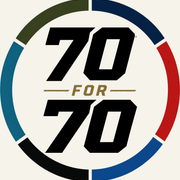
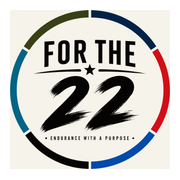
Refactor code structure for improved readability and maintainability; removed redundant sections and optimized logic flow.

diff --git a/src/lib/content/about.ts b/src/lib/content/about.ts
@@ -35,7 +35,7 @@ export const ABOUT_CONTENT: AboutContent = {
       id: "my-story",
       heading: "My Story",
       body: [
-        "My name is Cody Hitson. I am a husband, father, Navy veteran, law enforcement professional, and endurance athlete. Over the years, I have worn a lot of different uniforms and carried a lot of different responsibilities, but the part of my story that matters most to 70 for 70 is not what I have done.",
+        "My name is Cody Hitson. I am a husband, father, Navy veteran, law enforcement professional, and endurance athlete. Over the years, I have worn a lot of different uniforms and carried a lot of different responsibilities, but the part of my story that matters most to 70 for 22 is not what I have done.",
         "It is what I have survived, what I have learned, and what I believe I am supposed to do with the life I have been given.",
         "I spent seven years on active duty in the United States Navy as a Mass Communication Specialist. In 2011, I deployed to Afghanistan in support of Operation Enduring Freedom as a combat journalist. My job placed me alongside service members operating in an environment where violence, loss, fear, and uncertainty were part of everyday life.",
         "Like a lot of veterans, I came home physically present but carrying things I did not fully understand how to process.",
@@ -66,7 +66,7 @@ export const ABOUT_CONTENT: AboutContent = {
         "Mighty Oaks gave me more than a place to talk about difficult experiences. It helped me look at those experiences through a different lens — one centered on faith, responsibility, purpose, relationships, and what it means to move forward intentionally.",
         "The lessons I took home affected the way I viewed myself, my marriage, my family, my service, and my future.",
         "I left understanding something I had spent years missing: recovery is not simply about becoming the person you were before something happened. Sometimes it is about becoming someone stronger, wiser, more grounded, and more useful because of what happened.",
-        "That is one of the reasons Mighty Oaks is part of 70 for 70. I know firsthand what their work can mean to a veteran and a family.",
+        "That is one of the reasons Mighty Oaks is part of 70 for 22. I know firsthand what their work can mean to a veteran and a family.",
       ],
     },
     {
@@ -110,12 +110,12 @@ export const ABOUT_CONTENT: AboutContent = {
       heading: "The Next Challenge",
       body: [
         "My next major goal is completing a 70.3-mile triathlon. That means 1.2 miles swimming, 56 miles cycling, and 13.1 miles running — 70.3 miles total.",
-        "But I do not want this race to be only about crossing another finish line. I want those miles to mean something. That is where 70 for 70 began.",
+        "But I do not want this race to be only about crossing another finish line. I want those miles to mean something. That is where 70 for 22 began.",
       ],
     },
     {
-      id: "seventy-for-seventy",
-      heading: "70 for 70",
+      id: "seventy-for-twenty-two",
+      heading: "70 for 22",
       body: [
         "The mission is simple: 70 miles. $70,000. One mission for veterans.",
         "My goal is to use the road to 70.3 as a platform to raise $70,000 in support of organizations helping veterans rebuild their lives, rediscover purpose, and find community after service. Every mile represents $1,000 toward that mission.",
@@ -136,7 +136,7 @@ export const ABOUT_CONTENT: AboutContent = {
       id: "the-mission",
       heading: "The Mission",
       body: [
-        "70 for 70 is not about proving how tough I am. I have nothing left to prove in that department.",
+        "70 for 22 is not about proving how tough I am. I have nothing left to prove in that department.",
         "This is about using the ability I still have, the opportunities I have been given, and the lessons I have learned to help someone else take their next step.",
         "If my story helps one veteran ask for help, it matters. If this campaign helps one family get their husband, wife, father, mother, son, or daughter back, it matters. If these 70 miles help create a new mission for someone who thought theirs was over, every mile will have been worth it.",
         "70 miles. $70,000. One mission for veterans. And one step at a time until we get there.",

diff --git a/src/app/press/page.tsx b/src/app/press/page.tsx
@@ -11,7 +11,7 @@ import { ABOUT_CONTENT } from "@/lib/content/about";
 
 export const metadata: Metadata = {
   title: "Press & Media",
-  description: "Campaign summary, athlete bio, and media resources for 70 for 70.",
+  description: "Campaign summary, athlete bio, and media resources for For The 22.",
   alternates: { canonical: "/press" },
 };
 
@@ -33,7 +33,7 @@ export default async function PressPage() {
               Campaign Summary
             </h2>
             <p className="mt-3 text-base leading-relaxed text-charcoal-light">
-              70 for 70 pairs a 70.3-mile triathlon with a $70,000 fundraising goal — $1,000 per
+              70 for 22 pairs a 70.3-mile triathlon with a $70,000 fundraising goal — $1,000 per
               race mile — in support of veteran-focused nonprofit organizations.
               {" "}{SITE_TAGLINE}
             </p>
@@ -67,12 +67,13 @@ export default async function PressPage() {
               Logo Downloads
             </h2>
             <p className="mt-1 text-sm text-charcoal-light">
-              The compact icon/mark is available below in light- and dark-background versions.
-              A horizontal lockup hasn&apos;t been produced yet.
+              The compact icon/mark is available below in light- and dark-background versions,
+              alongside the 70 for 22 campaign mark. A horizontal lockup hasn&apos;t been
+              produced yet.
             </p>
             <div className="mt-3 flex flex-wrap gap-4">
               <div className="inline-flex flex-col items-start gap-3 rounded-sm border border-ink/10 bg-off-white p-6">
-                <Image src="/logo.png" alt="70 for 70 logo mark, dark numerals" width={140} height={140} />
+                <Image src="/logo.png" alt="For The 22 logo mark, dark numerals" width={140} height={140} />
                 <a
                   href="/logo.png"
                   download
@@ -84,7 +85,7 @@ export default async function PressPage() {
               <div className="inline-flex flex-col items-start gap-3 rounded-sm border border-ink/10 bg-ink p-6">
                 <Image
                   src="/logo-white.png"
-                  alt="70 for 70 logo mark, white numerals"
+                  alt="For The 22 logo mark, white numerals"
                   width={140}
                   height={140}
                 />
@@ -94,6 +95,21 @@ export default async function PressPage() {
                   className="inline-flex rounded-sm border border-off-white/30 px-4 py-2 text-xs font-semibold uppercase tracking-wide text-off-white hover:bg-off-white/10"
                 >
                   Download (Dark Background)
+                </a>
+              </div>
+              <div className="inline-flex flex-col items-start gap-3 rounded-sm border border-ink/10 bg-off-white p-6">
+                <Image
+                  src="/campaign-logo.png"
+                  alt="70 for 22 campaign logo mark"
+                  width={140}
+                  height={140}
+                />
+                <a
+                  href="/campaign-logo.png"
+                  download
+                  className="inline-flex rounded-sm border border-ink/20 px-4 py-2 text-xs font-semibold uppercase tracking-wide text-ink hover:bg-ink/5"
+                >
+                  Download (Campaign Mark)
                 </a>
               </div>
             </div>

diff --git a/src/lib/content/terms.ts b/src/lib/content/terms.ts
@@ -20,7 +20,7 @@ export const TERMS_SECTIONS: TermsSection[] = [
     heading: "Terms of Use",
     body: [
       "By using this website, you agree to use it lawfully and not to interfere with its operation, attempt unauthorized access to any part of it, or misuse the contact or sponsorship request forms.",
-      "This site is provided as-is, without warranty of any kind. 70 for 70 is not liable for any damages arising from your use of the site, to the fullest extent permitted by law.",
+      "This site is provided as-is, without warranty of any kind. For The 22 is not liable for any damages arising from your use of the site, to the fullest extent permitted by law.",
       "These terms may be updated from time to time; the current version always applies. Continued use of the site after a change means you accept the updated terms.",
     ],
   },
@@ -28,7 +28,7 @@ export const TERMS_SECTIONS: TermsSection[] = [
     id: "sponsorship-disclosure",
     heading: "Sponsorship Disclosure",
     body: [
-      "Sponsorship proposals submitted through this site are reviewed under a documented approval process before any sponsorship, gift, payment, product, or service is accepted. Submitting a sponsorship request does not create any obligation on the part of 70 for 70 to accept it.",
+      "Sponsorship proposals submitted through this site are reviewed under a documented approval process before any sponsorship, gift, payment, product, or service is accepted. Submitting a sponsorship request does not create any obligation on the part of For The 22 to accept it.",
       "A business or individual is only recognized publicly as a sponsor after its request has been approved and activated by the campaign administrator. No sponsorship recognition implies an endorsement of the sponsor by any beneficiary organization named on this site.",
     ],
   },
@@ -36,8 +36,8 @@ export const TERMS_SECTIONS: TermsSection[] = [
     id: "charitable-giving-disclosure",
     heading: "Charitable Giving Disclosure",
     body: [
-      "70 for 70 does not process, collect, or take possession of charitable donations. Donate links on this site route to each beneficiary organization's own, independently operated donation platform, and your donation is governed by that organization's own terms and privacy practices.",
-      "70 for 70 does not issue tax receipts. If your donation is tax-deductible, the receiving nonprofit organization — not 70 for 70 — is responsible for providing documentation.",
+      "For The 22 does not process, collect, or take possession of charitable donations. Donate links on this site route to each beneficiary organization's own, independently operated donation platform, and your donation is governed by that organization's own terms and privacy practices.",
+      "For The 22 does not issue tax receipts. If your donation is tax-deductible, the receiving nonprofit organization — not For The 22 — is responsible for providing documentation.",
       "Fundraising figures shown on this site (amounts raised, miles funded) reflect information reported to or verified by the campaign and may not update in real time with each beneficiary organization's own records.",
     ],
   },

diff --git a/src/app/page.tsx b/src/app/page.tsx
@@ -20,7 +20,7 @@ import { MediaPlaceholder } from "@/components/shared/media-placeholder";
 import { ShareButtons } from "@/components/shared/share-buttons";
 import { EmailSignupForm } from "@/components/forms/email-signup-form";
 import { ABOUT_CONTENT } from "@/lib/content/about";
-import { SITE_TAGLINE, SITE_URL } from "@/lib/constants";
+import { CAMPAIGN_NAME, SITE_TAGLINE, SITE_URL } from "@/lib/constants";
 import { formatCurrency, formatNumber, milesFunded, percentFunded } from "@/lib/utils";
 
 const HERO_SUPPORTING_SENTENCE =
@@ -55,7 +55,7 @@ export default async function HomePage() {
 
         <Container className="relative py-24 sm:py-32">
           <h1 className="text-balance font-display text-5xl font-bold uppercase leading-[0.95] tracking-tight sm:text-7xl">
-            70 for 70
+            {CAMPAIGN_NAME}
           </h1>
           <p className="mt-4 max-w-xl text-lg font-medium text-off-white/90 sm:text-xl">
             {SITE_TAGLINE}
@@ -148,7 +148,7 @@ export default async function HomePage() {
           </div>
 
           <div>
-            <SectionHeading eyebrow="Who's Behind 70 for 70" title="Why I'm Doing This" />
+            <SectionHeading eyebrow="Who's Behind 70 for 22" title="Why I'm Doing This" />
             <div className="mt-5 space-y-4">
               {ABOUT_CONTENT.homepageTeaser.map((paragraph, i) => (
                 <p key={i} className="text-base leading-relaxed text-charcoal-light">
@@ -194,7 +194,7 @@ export default async function HomePage() {
           <SectionHeading
             eyebrow="Who It Supports"
             title="Beneficiary Organizations"
-            description="70 for 70 raises funds in support of veteran-focused nonprofit organizations."
+            description="70 for 22 raises funds in support of veteran-focused nonprofit organizations."
           />
           <div className="mt-8 grid gap-6 sm:grid-cols-2">
             {partners.map((partner) => (
@@ -230,7 +230,7 @@ export default async function HomePage() {
           <SectionHeading
             eyebrow="Backing the Mission"
             title="Sponsors"
-            description="Organizations and businesses supporting 70 for 70 alongside individual donors."
+            description="Organizations and businesses supporting 70 for 22 alongside individual donors."
           />
           <div className="mt-8">
             <SponsorWall sponsors={sponsors} />
@@ -282,11 +282,11 @@ export default async function HomePage() {
       <section className="py-10">
         <Container className="flex flex-wrap items-center justify-between gap-4">
           <p className="text-xs font-semibold uppercase tracking-widest text-charcoal-light">
-            Share 70 for 70
+            Share 70 for 22
           </p>
           <ShareButtons
             url={SITE_URL}
-            title="I'm helping move 70 for 70 one mile closer to $70,000 for veterans."
+            title="I'm helping move 70 for 22 one mile closer to $70,000 for veterans."
           />
         </Container>
       </section>

diff --git a/src/app/donate/page.tsx b/src/app/donate/page.tsx
@@ -10,7 +10,7 @@ import { CampaignAllocation } from "@/components/campaign/campaign-allocation";
 
 export const metadata: Metadata = {
   title: "Donate",
-  description: "Support 70 for 70 through an authorized partner donation platform.",
+  description: "Support 70 for 22 through an authorized partner donation platform.",
   alternates: { canonical: "/donate" },
 };
 
@@ -29,7 +29,7 @@ export default async function DonatePage(props: PageProps<"/donate">) {
           <SectionHeading
             eyebrow="Support the Mission"
             title="Where Would You Like Your Donation to Go?"
-            description="70 for 70 does not process donations directly. Choose a beneficiary organization below to give through its authorized donation platform."
+            description="For The 22 does not process donations directly. Choose a beneficiary organization below to give through its authorized donation platform."
           />
 
           {mileNumber && Number.isFinite(mileNumber) && (
@@ -89,9 +89,9 @@ export default async function DonatePage(props: PageProps<"/donate">) {
           </div>
 
           <p className="mt-8 max-w-2xl text-sm font-medium text-charcoal-light">
-            70 for 70 does not take possession of charitable donations. Donations are directed
-            through each nonprofit organization&apos;s authorized donation platform, and 70 for
-            70 does not independently process charitable contributions unless explicitly stated.
+            For The 22 does not take possession of charitable donations. Donations are directed
+            through each nonprofit organization&apos;s authorized donation platform, and For The
+            22 does not independently process charitable contributions unless explicitly stated.
           </p>
 
           {allocationBreakdown && (

diff --git a/src/lib/content/mission.ts b/src/lib/content/mission.ts
@@ -17,7 +17,7 @@ export const MISSION_SECTIONS: MissionSection[] = [
     id: "the-challenge",
     heading: "The Challenge",
     body: [
-      "70 for 70 pairs a 70.3-mile triathlon — a 1.2-mile swim, 56-mile bike, and 13.1-mile run — with a $70,000 fundraising goal: one mile completed on race day, one mile of fundraising, at $1,000 per mile.",
+      "70 for 22 pairs a 70.3-mile triathlon — a 1.2-mile swim, 56-mile bike, and 13.1-mile run — with a $70,000 fundraising goal: one mile completed on race day, one mile of fundraising, at $1,000 per mile.",
       "The race itself is the vehicle, not the point. The training, the setbacks, the early mornings, and the finish line all become part of something larger than one race.",
     ],
   },
@@ -35,7 +35,7 @@ export const MISSION_SECTIONS: MissionSection[] = [
     heading: "Why Mighty Oaks",
     body: [
       "In 2023, I attended a Mighty Oaks Warrior Program retreat. It became an important turning point in my life — helping me look at difficult experiences through a lens centered on faith, responsibility, purpose, and relationships, and affecting how I viewed my marriage, my family, and my future.",
-      "I know firsthand what their work can mean to a veteran and a family. That's why Mighty Oaks is part of 70 for 70.",
+      "I know firsthand what their work can mean to a veteran and a family. That's why Mighty Oaks is part of 70 for 22.",
     ],
     link: { label: "Learn more about Mighty Oaks", href: "/partners" },
   },

diff --git a/src/lib/constants.ts b/src/lib/constants.ts
@@ -1,6 +1,15 @@
 import type { NavLink } from "@/types/content";
 
-export const SITE_NAME = "70 for 70";
+/** The organization/site brand — used in the header, footer, legal copy, and site-wide metadata. */
+export const SITE_NAME = "For The 22";
+/** The org's own tagline, from the logo mark. */
+export const ORG_TAGLINE = "Endurance With A Purpose";
+/**
+ * The specific fundraising campaign/race effort — distinct from SITE_NAME.
+ * Used in the hero, mission copy, and anywhere the campaign itself (not the
+ * organization) is being named.
+ */
+export const CAMPAIGN_NAME = "70 for 22";
 export const SITE_TAGLINE = "70 miles. $70,000. One mission for veterans.";
 export const SITE_URL = process.env.NEXT_PUBLIC_SITE_URL ?? "http://localhost:3000";
 
@@ -86,12 +95,12 @@ export const SPONSORSHIP_LEVELS = [
     perks: [
       "Top-tier logo placement across the site",
       "Dedicated recognition in race-day communications",
-      "First right of refusal for future 70 for 70 campaigns",
+      "First right of refusal for future For The 22 campaigns",
     ],
   },
 ] as const;
 
-/** Why sponsor 70 for 70 — shown before pricing tiers on the Sponsors page. */
+/** Why sponsor 70 for 22 — shown before pricing tiers on the Sponsors page. */
 export const SPONSOR_VALUE_PROPS = [
   {
     id: "veteran-impact",

diff --git a/src/app/partners/page.tsx b/src/app/partners/page.tsx
@@ -6,7 +6,7 @@ import { PartnerCard } from "@/components/partners/partner-card";
 
 export const metadata: Metadata = {
   title: "Partners",
-  description: "The veteran-focused nonprofit organizations supported by 70 for 70.",
+  description: "The veteran-focused nonprofit organizations supported by 70 for 22.",
   alternates: { canonical: "/partners" },
 };
 
@@ -20,7 +20,7 @@ export default async function PartnersPage() {
           <SectionHeading
             eyebrow="Who It Supports"
             title="Beneficiary Organizations"
-            description="70 for 70 raises funds in support of the following veteran-focused nonprofit organizations."
+            description="70 for 22 raises funds in support of the following veteran-focused nonprofit organizations."
           />
         </Container>
       </section>
@@ -35,7 +35,7 @@ export default async function PartnersPage() {
 
           <p className="mt-10 max-w-2xl text-sm text-charcoal-light">
             Donations are directed through each organization&apos;s authorized donation
-            platform. 70 for 70 does not independently process charitable contributions
+            platform. For The 22 does not independently process charitable contributions
             unless explicitly stated.
           </p>
         </Container>

diff --git a/src/app/miles/[number]/page.tsx b/src/app/miles/[number]/page.tsx
@@ -24,8 +24,8 @@ export async function generateMetadata(props: PageProps<"/miles/[number]">): Pro
   const mile = Number.isFinite(mileNumber) ? await getMileWithDonations(mileNumber) : null;
   if (!mile) return {};
 
-  const title = `Help Fund Mile ${mile.mile_number} | 70 for 70`;
-  const description = `${formatCurrency(mile.amount_funded)} of ${formatCurrency(mile.goal_amount)} funded toward Mile ${mile.mile_number} of the 70 for 70 campaign.`;
+  const title = `Help Fund Mile ${mile.mile_number} | 70 for 22`;
+  const description = `${formatCurrency(mile.amount_funded)} of ${formatCurrency(mile.goal_amount)} funded toward Mile ${mile.mile_number} of the 70 for 22 campaign.`;
 
   return {
     title,
@@ -173,7 +173,7 @@ export default async function MilePage(props: PageProps<"/miles/[number]">) {
           <p className="mb-2 text-xs font-semibold uppercase tracking-widest text-charcoal-light">
             Share This Mile
           </p>
-          <ShareButtons url={shareUrl} title={`Help Fund Mile ${mile.mile_number} | 70 for 70`} />
+          <ShareButtons url={shareUrl} title={`Help Fund Mile ${mile.mile_number} | 70 for 22`} />
         </div>
 
         <p className="mt-10 border-t border-ink/10 pt-6 text-sm text-charcoal-light">

diff --git a/src/app/sponsors/request/page.tsx b/src/app/sponsors/request/page.tsx
@@ -6,7 +6,7 @@ import { SponsorshipRequestForm } from "@/components/forms/sponsorship-request-f
 export const metadata: Metadata = {
   title: "Request to Sponsor",
   description:
-    "Submit a sponsorship request for 70 for 70. All sponsorship proposals are individually reviewed before acceptance.",
+    "Submit a sponsorship request for 70 for 22. All sponsorship proposals are individually reviewed before acceptance.",
   alternates: { canonical: "/sponsors/request" },
 };
 
@@ -21,7 +21,7 @@ export default async function SponsorshipRequestPage(props: PageProps<"/sponsors
         <SectionHeading
           eyebrow="For Businesses"
           title="Request to Sponsor"
-          description="Interested in supporting 70 for 70 as a corporate or in-kind sponsor? Submit a sponsorship request below. All sponsorship proposals are individually reviewed before acceptance — this form does not commit you or the campaign to anything."
+          description="Interested in supporting 70 for 22 as a corporate or in-kind sponsor? Submit a sponsorship request below. All sponsorship proposals are individually reviewed before acceptance — this form does not commit you or the campaign to anything."
         />
 
         <div className="mt-10">

diff --git a/src/components/shared/external-donate-button.tsx b/src/components/shared/external-donate-button.tsx
@@ -7,7 +7,7 @@ import { cn } from "@/lib/utils";
 /**
  * Donate CTA that confirms the outbound trip before leaving the site — see
  * README's Priority 9 trust-signal notes. Never navigates directly; always
- * shows "You're leaving 70 for 70..." first, so it's clear 70 for 70 isn't
+ * shows "You're leaving For The 22..." first, so it's clear For The 22 isn't
  * processing the donation itself.
  */
 export function ExternalDonateButton({
@@ -62,11 +62,11 @@ export function ExternalDonateButton({
             id="donate-confirm-heading"
             className="font-display text-lg font-semibold uppercase tracking-wide"
           >
-            Leaving 70 for 70
+            Leaving For The 22
           </h3>
           <p className="mt-3 text-sm text-charcoal-light">
-            You&apos;re leaving 70 for 70 to donate securely through {orgName}&apos;s authorized
-            platform. 70 for 70 does not process or take possession of this donation.
+            You&apos;re leaving For The 22 to donate securely through {orgName}&apos;s authorized
+            platform. For The 22 does not process or take possession of this donation.
           </p>
           <div className="mt-6 flex flex-wrap gap-3">
             <a

diff --git a/src/components/forms/sponsorship-request-form.tsx b/src/components/forms/sponsorship-request-form.tsx
@@ -93,7 +93,7 @@ export function SponsorshipRequestForm({ defaultMileNumber }: { defaultMileNumbe
           Request received
         </p>
         <p className="mt-1 text-sm text-charcoal-light">
-          Thank you for your interest in sponsoring 70 for 70. Every proposal is individually
+          Thank you for your interest in sponsoring 70 for 22. Every proposal is individually
           reviewed before acceptance — we&apos;ll follow up by email.
         </p>
       </div>
@@ -220,7 +220,7 @@ export function SponsorshipRequestForm({ defaultMileNumber }: { defaultMileNumbe
         <legend className="text-xs font-semibold uppercase tracking-widest text-bronze">
           Additional Information
         </legend>
-        <Field id="referralSource" name="referralSource" label="How did you hear about 70 for 70?" />
+        <Field id="referralSource" name="referralSource" label="How did you hear about 70 for 22?" />
         <div>
           <label htmlFor="message" className="text-sm font-medium text-ink">
             Message <span className="text-charcoal-light">(optional)</span>
